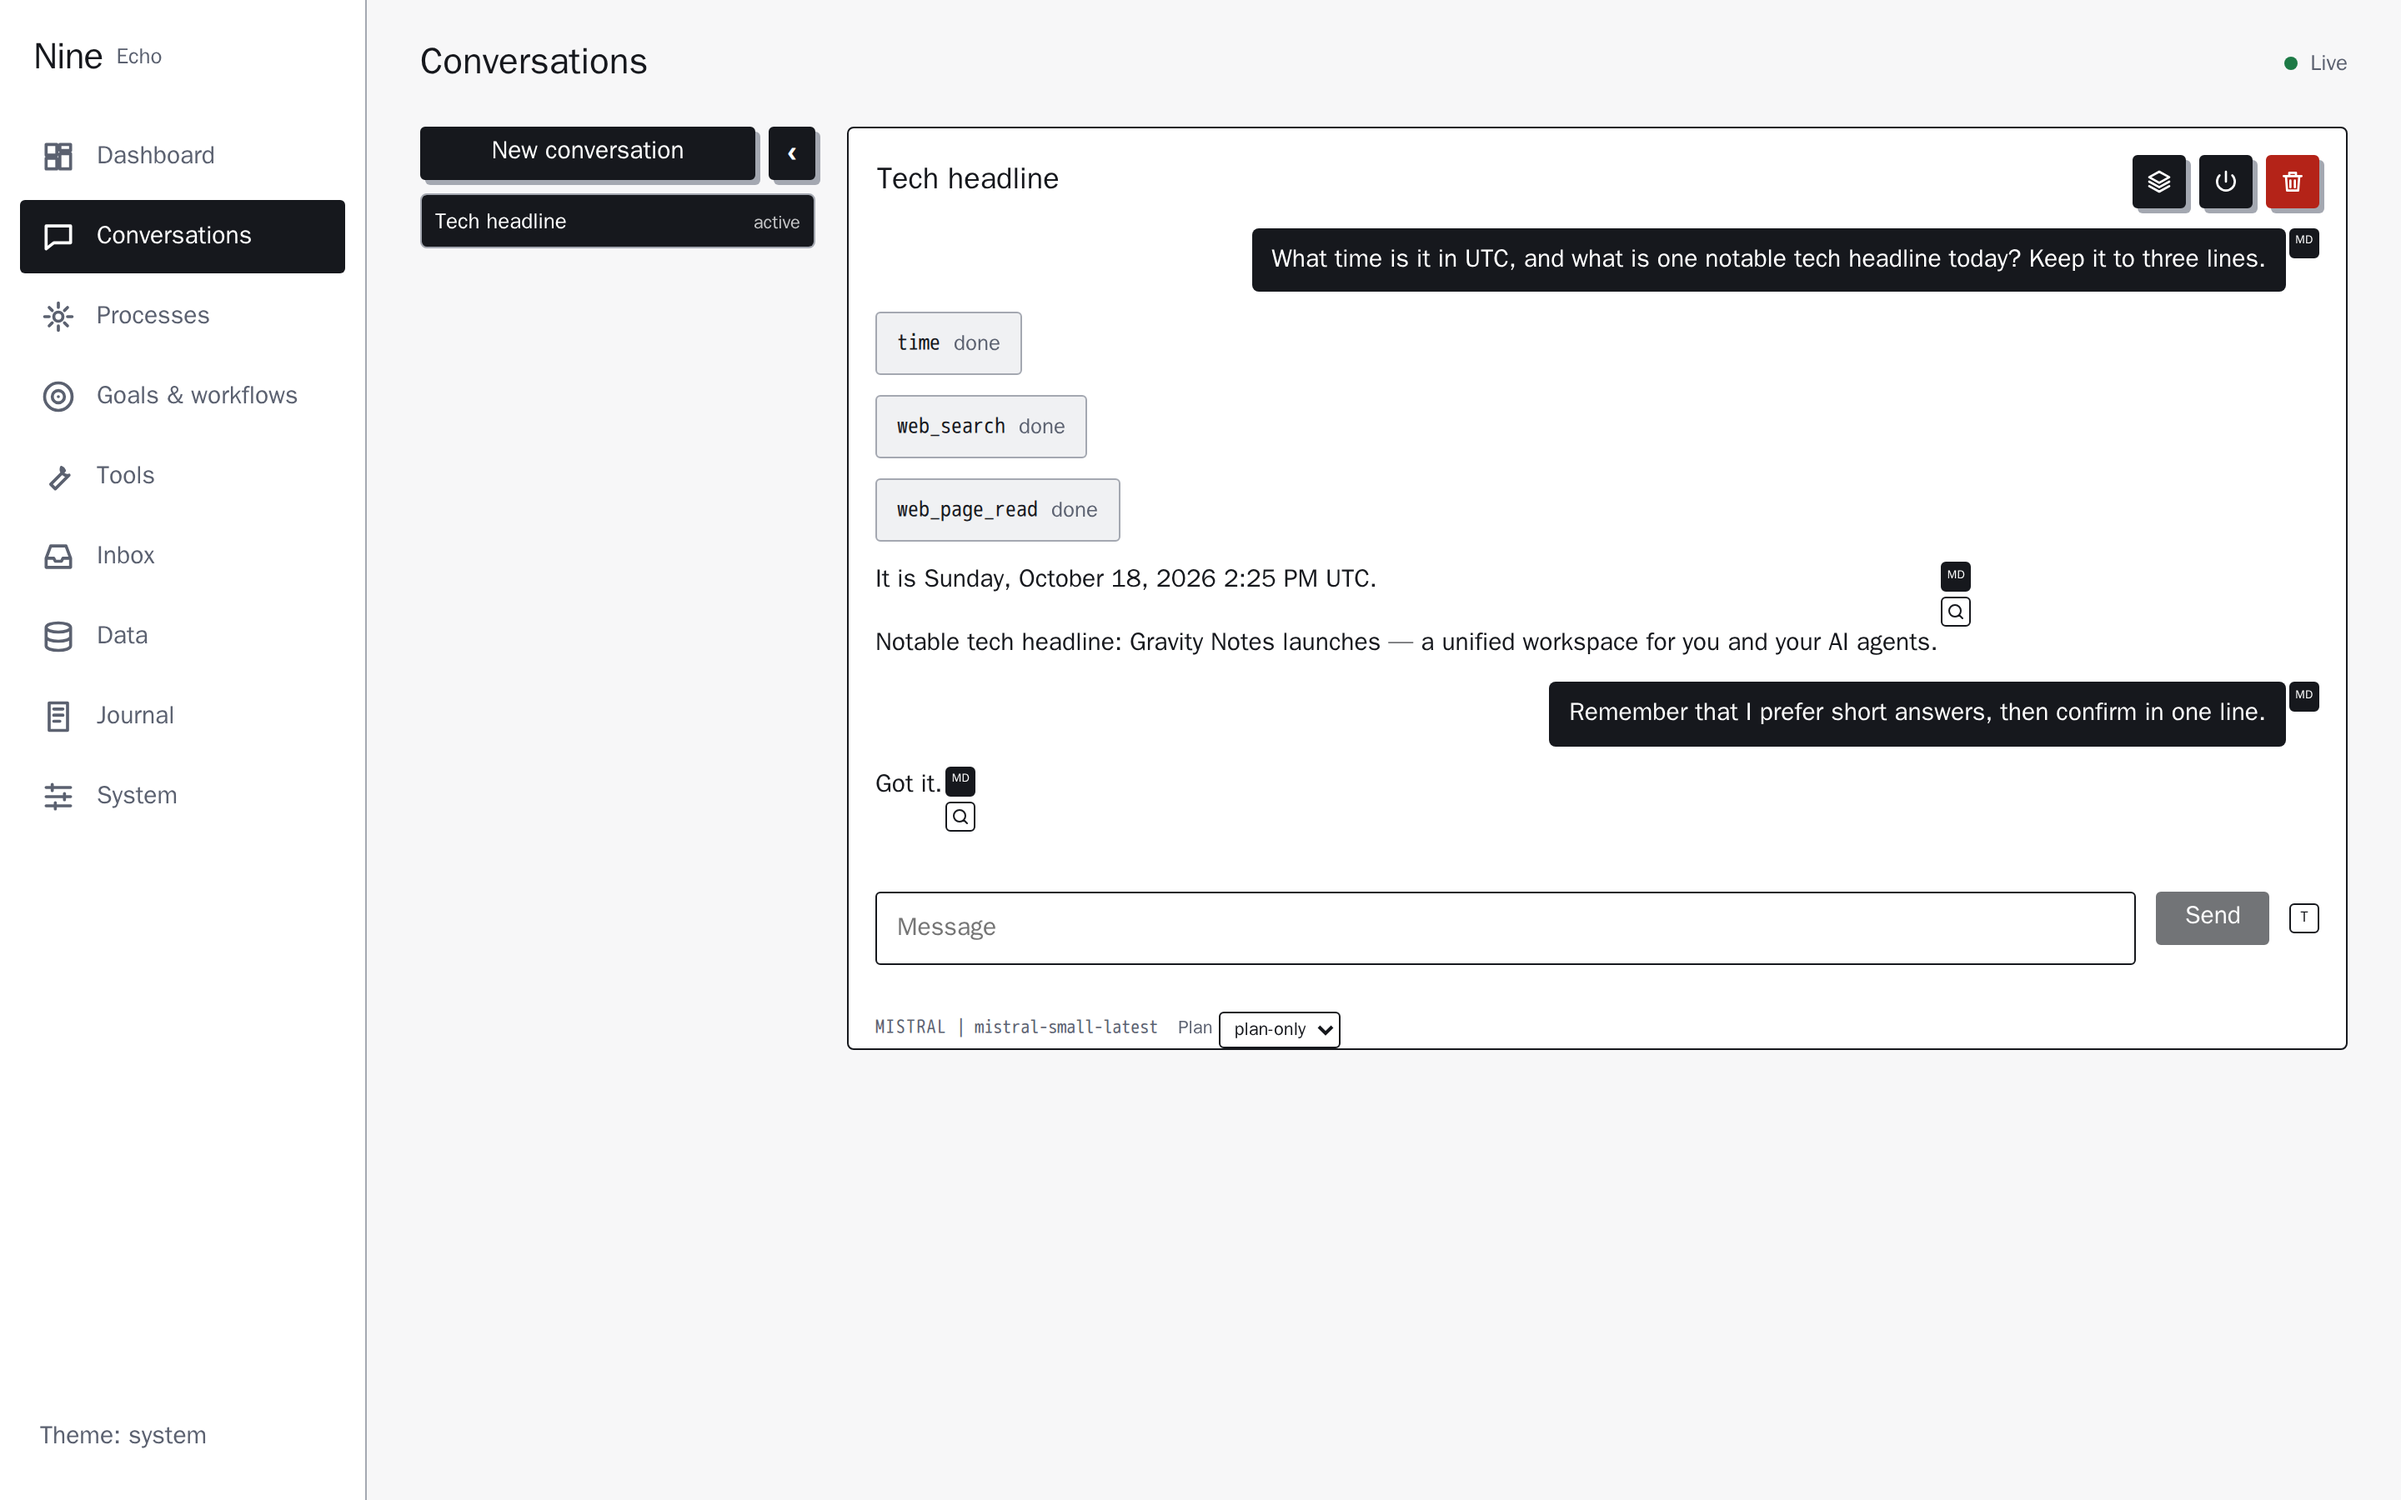
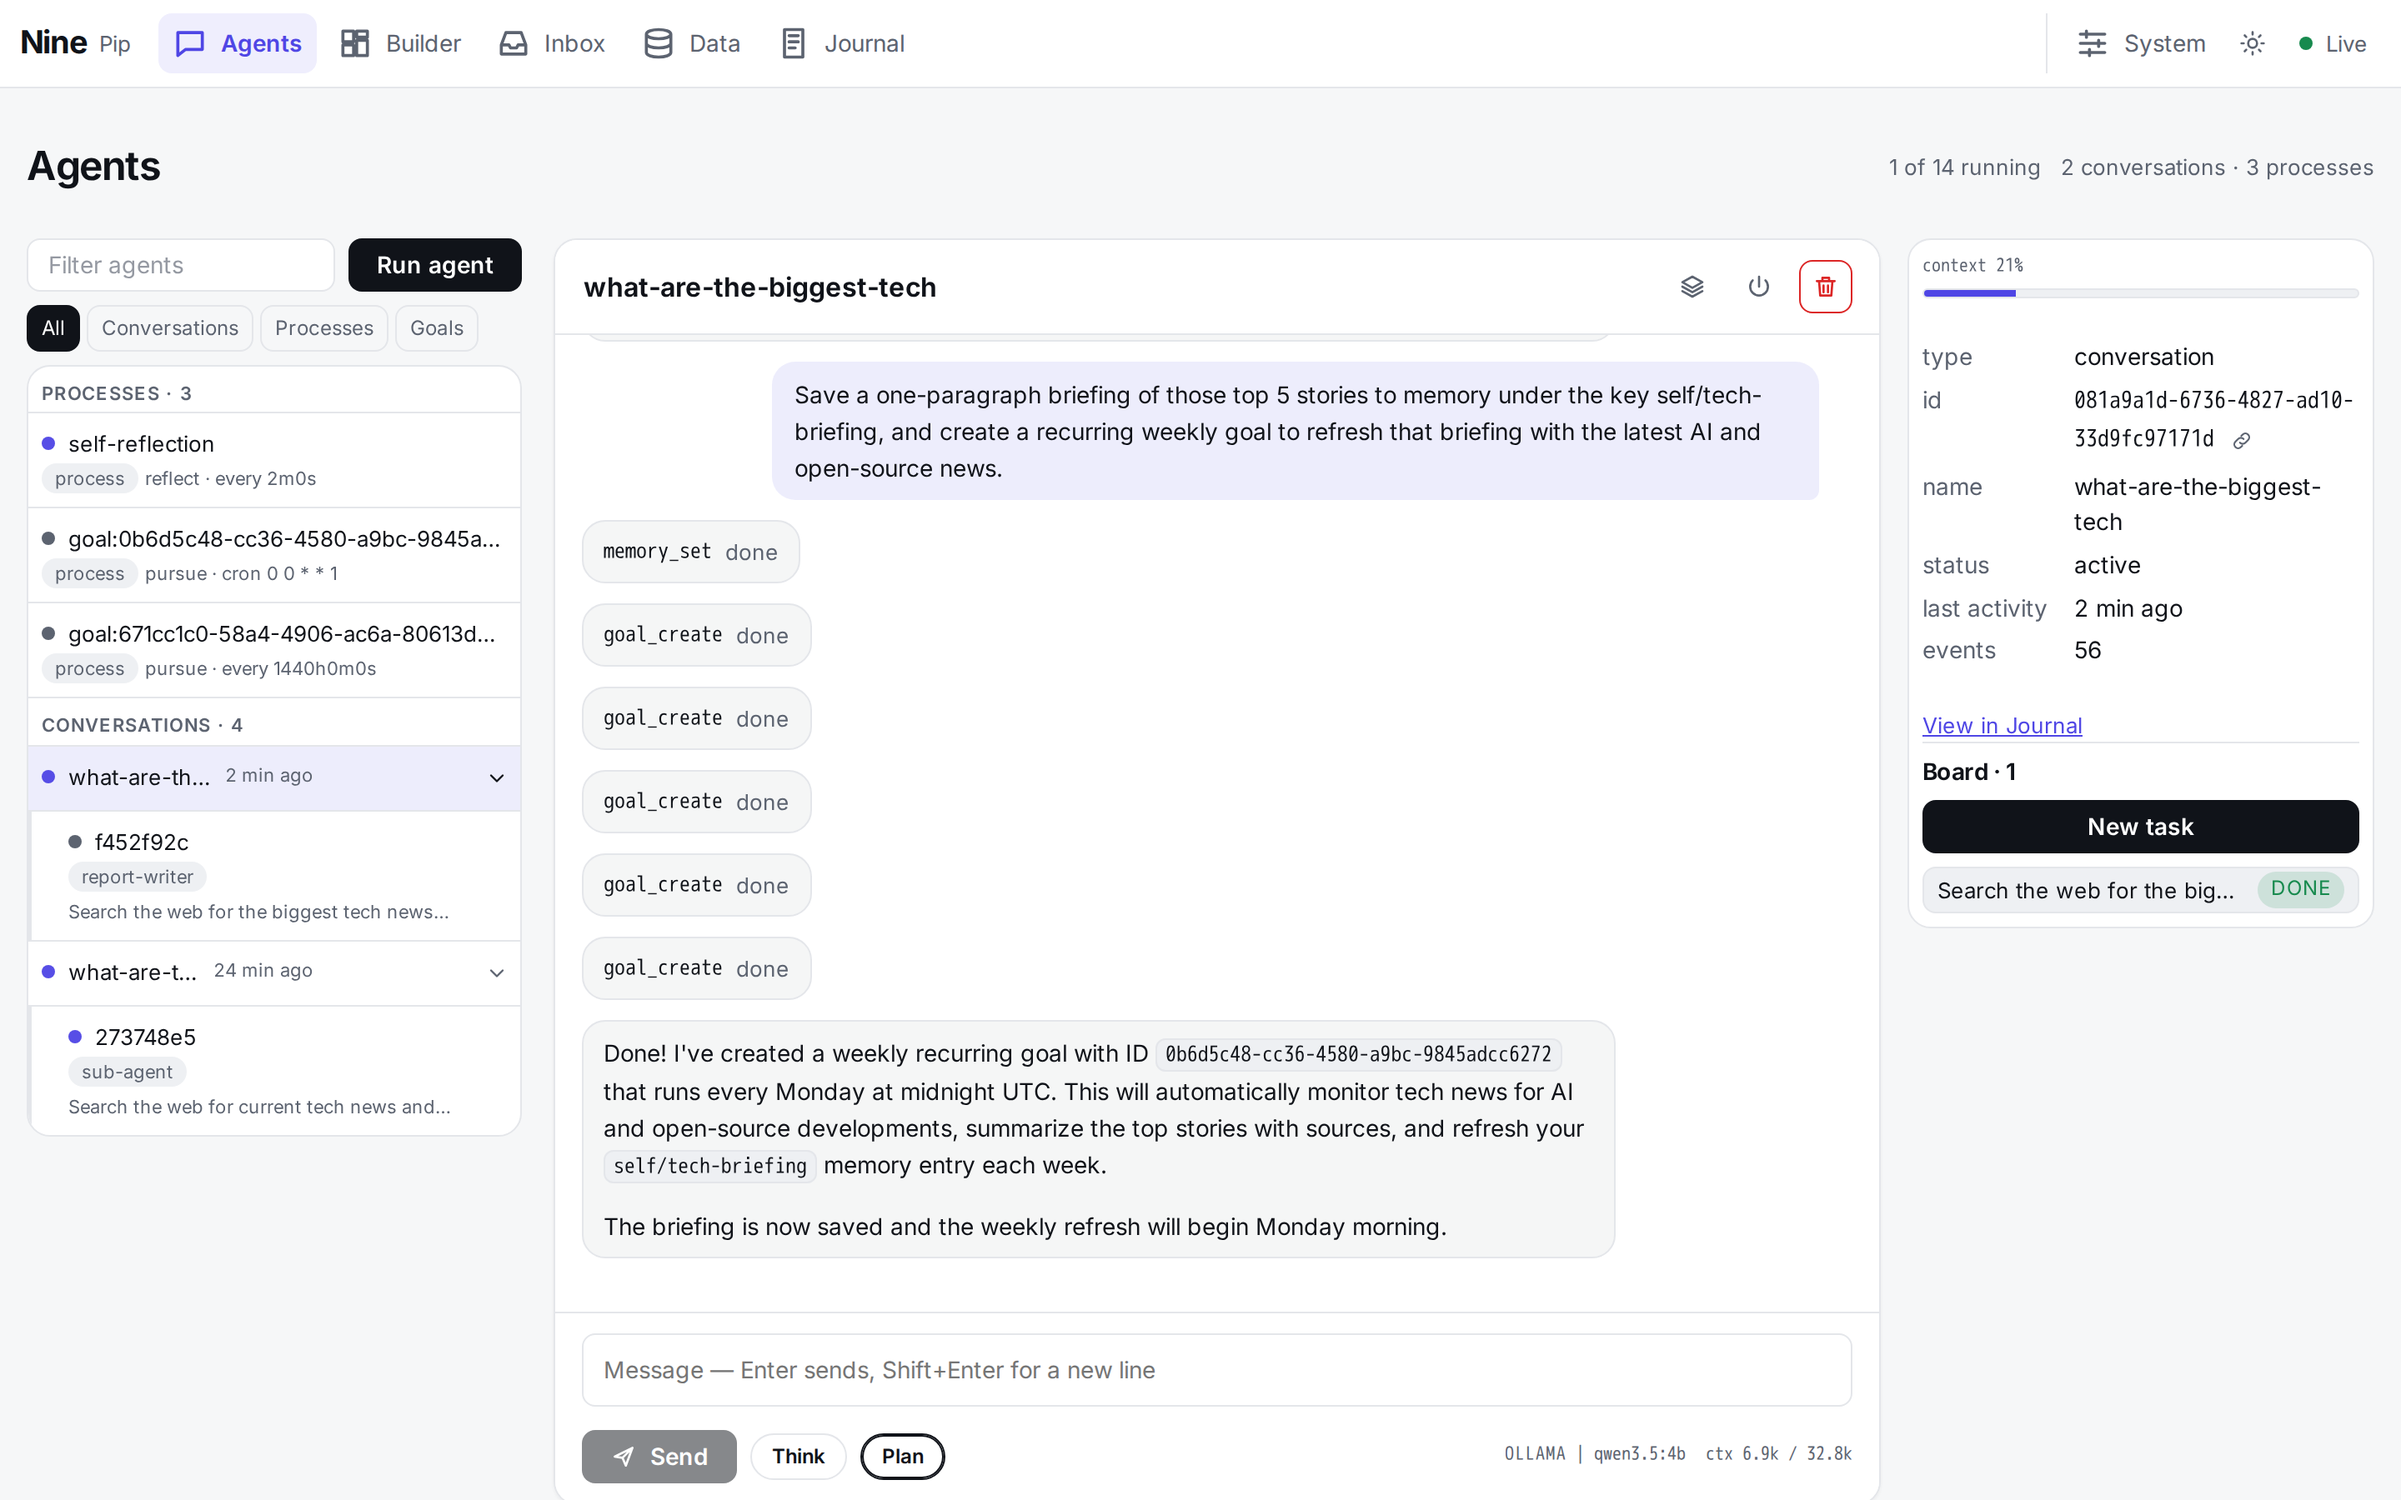
docs: replace the README screenshots with the current web UI
The eight docs/img screenshots still showed the pre-v2 UI. Recaptured
them at 2880x1800 from a freshly reset nine container running a real
tech-news demo: the orchestrator delegated web research to a sub-agent
via the board, replied with a sourced top-5, saved a briefing to memory
(self/tech-briefing) and created a weekly recurring goal; a custom
tech-news-scout agent was created with context=compact. Alt texts updated
where pages moved in the v2 layout (Agents page, Builder > Tools, Builder
> Data).

Generated by Mistral Vibe.

diff --git a/README.md b/README.md
@@ -34,15 +34,15 @@ The web UI that `nine api serve` serves beside the API ([web UI](docs/web-ui.md)
 <td><img src="docs/img/web_inspect.png" alt="A turn opened under its reply: its input, each model call with its context size and tokens, and each tool call's input and output"></td>
 </tr>
 <tr>
-<td><img src="docs/img/web_dashboard.png" alt="The dashboard: what needs you, processes, the latest activity, recent conversations, goals, notifications and the daemon"></td>
+<td><img src="docs/img/web_dashboard.png" alt="The Agents page: running processes, conversations and goals in one list, with the Run agent button"></td>
 <td><img src="docs/img/web_processes.png" alt="Processes: the self-reflection process with its trigger, session, budget for the day and recent activity"></td>
 </tr>
 <tr>
-<td><img src="docs/img/web_tools.png" alt="Tools: the built-in web_search tool, to call directly"></td>
+<td><img src="docs/img/web_tools.png" alt="Builder › Tools: the tool roster with provenance — pick one to inspect it or call it directly"></td>
 <td><img src="docs/img/web_journal.png" alt="The journal: every event the daemon records, live, filterable by kind and session"></td>
 </tr>
 <tr>
-<td><img src="docs/img/web_memory.png" alt="Data › Memory: every key of the key-value memory the agent reads and writes, with one key's value, read-only"></td>
+<td><img src="docs/img/web_memory.png" alt="Builder › Data › Memory: every key of the key-value memory the agent reads and writes"></td>
 <td><img src="docs/img/web_config.png" alt="System › Config: the configuration in force, as TOML, with credentials hidden"></td>
 </tr>
 </table>
